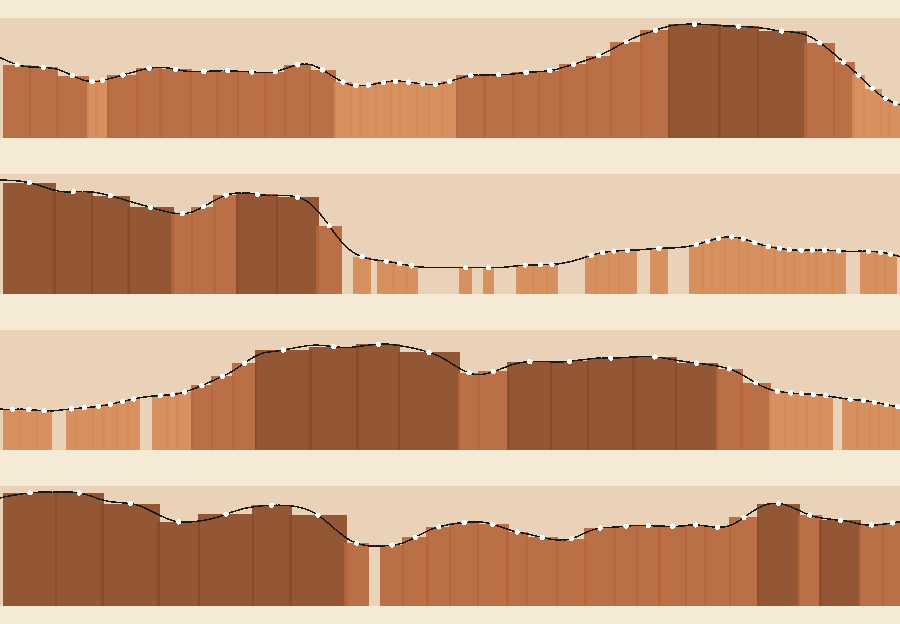
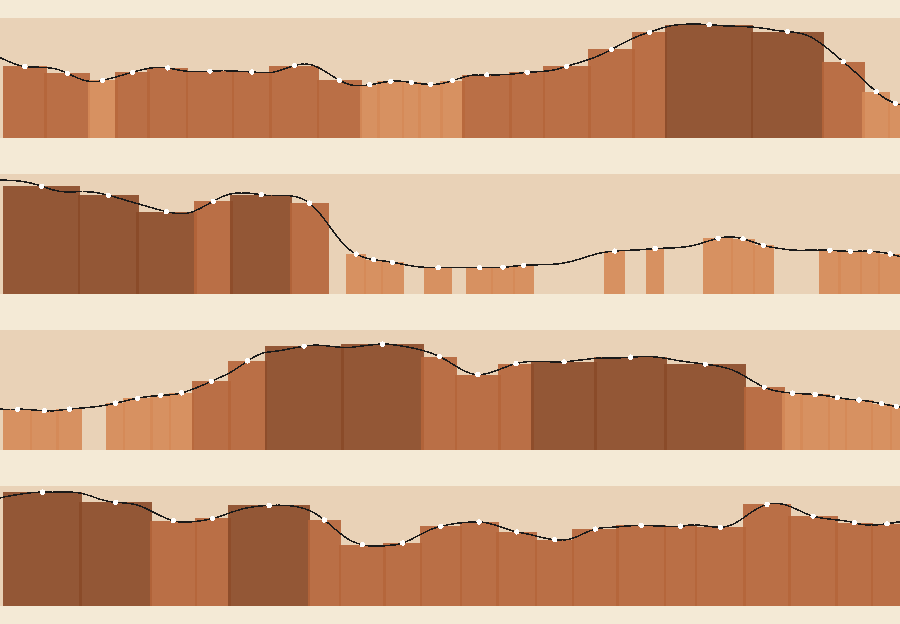
벽 바위 줄 점(블록) 덜 촘촘하게: 폭 약 1.5배(큰 20~30·중 11~17·작 6~10), 앞 잔돌 35% → 20%

diff --git a/tools/wall_profile.py b/tools/wall_profile.py
@@ -60,11 +60,11 @@ def blocks_along(a0, a1, seed, dens=1.0):
         h_here = frac(cur + 4, seed)
         slope = abs(frac(cur + 9, seed) - frac(cur - 1, seed))
         if h_here > 0.72 and slope < 0.08:
-            w, d, kind = 13 + r * 8, 7 + r * 2.5, "큰"
+            w, d, kind = 20 + r * 10, 7.5 + r * 2.5, "큰"
         elif h_here > 0.5:
-            w, d, kind = 7 + r * 4, 4.5 + r * 2, "중"
+            w, d, kind = 11 + r * 6, 5 + r * 2, "중"
         else:
-            w, d, kind = 3.5 + r * 3, 3 + r * 1.5, "작"
+            w, d, kind = 6 + r * 4, 3.5 + r * 1.5, "작"
         w = min(w, a1 - cur + 1)
         hf = frac(cur + w / 2, seed)
         skip = kind == "작" and hash1(n * 5 + 1, seed) < (1 - dens) * 0.9
